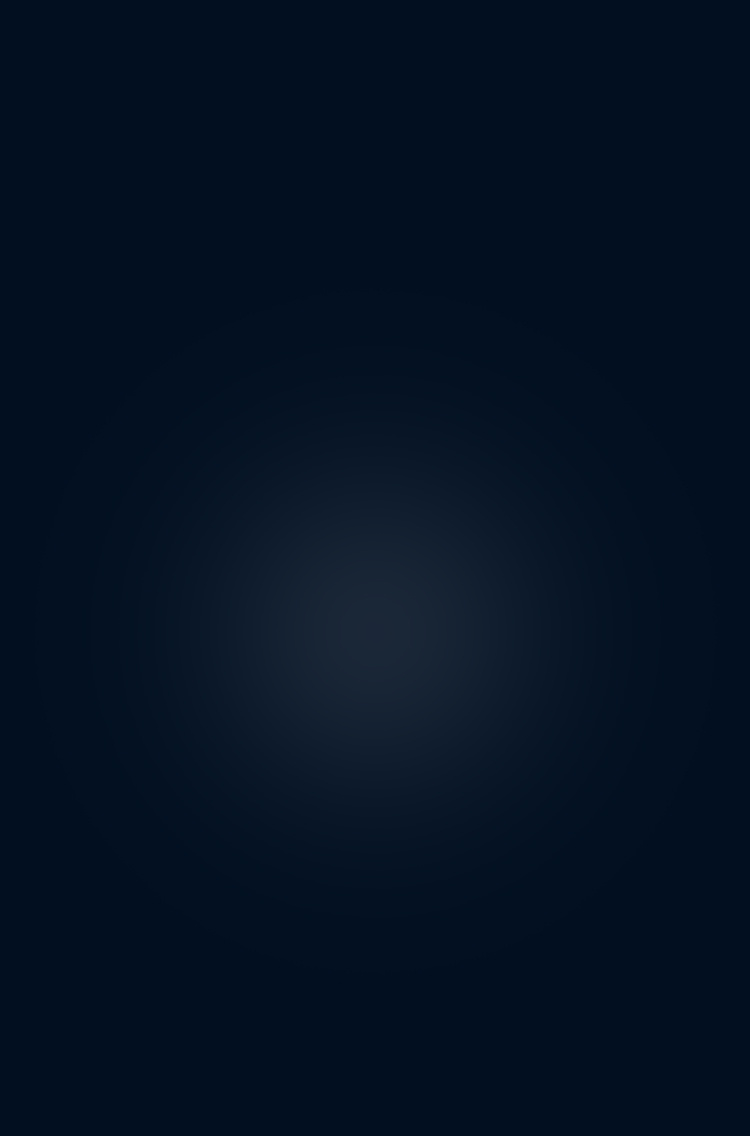
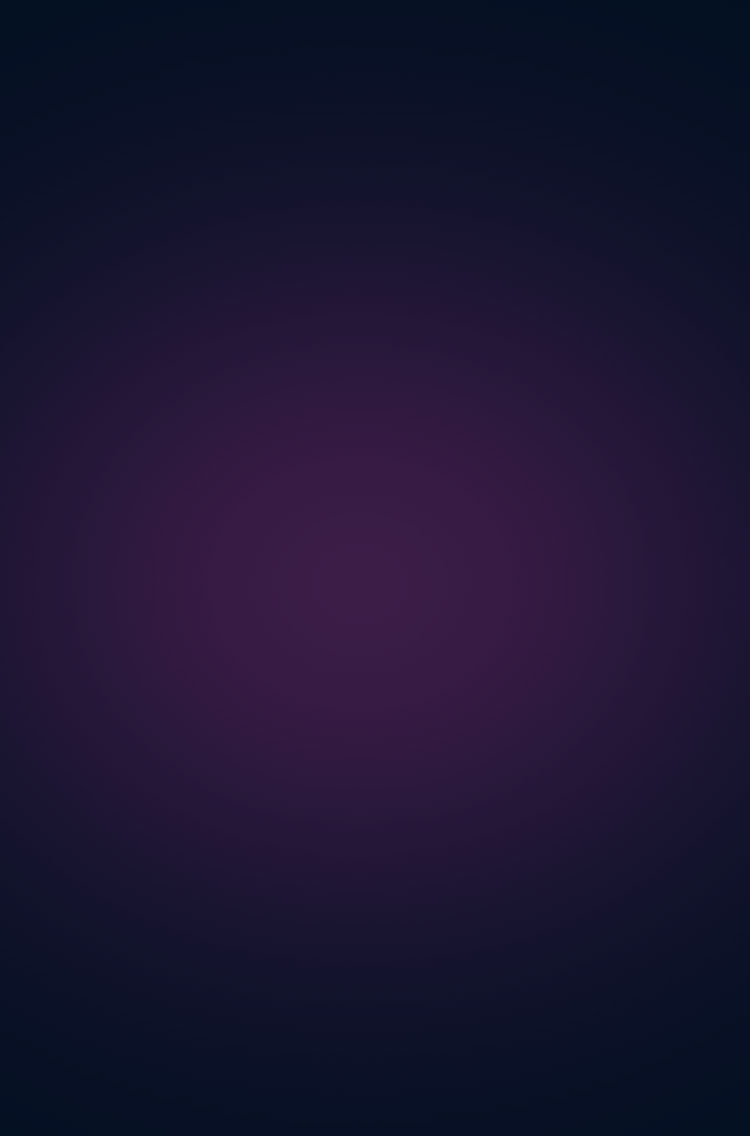
by darre

diff --git a/index_blue.html b/index_blue.html
@@ -10,8 +10,22 @@
     <link rel="stylesheet" type="text/css" href="css/third.css">
     <link rel="stylesheet" type="text/css" href="css/darre.css">
     <link rel="stylesheet" type="text/css" href="css/popup.css">
-
     <body>
+    <div id="popup_container" class="popup_container hide" style="position: fixed;width: 100%;height: 100%;background: url('images/bg.jpg');background-size: 100% 100%;z-index: 556">
+        <!-- 获取四个字通用，只需要把下方get_font_title的img换掉 -->
+        <div class="popup popup_big" id="popup_getkey">
+            <img class="close" src="images/popup/close.png">
+            <img class="get_font_title" src="images/popup/zhu.png">
+            <div class="text">
+                <p><b>友情提示：</b></p>
+                <p><b>注册/登录会员</b>或扫描<b>枕巾、小桌板、桌背</b>的二维码，</p>
+                <p>均有机会获得<b>“想住就住”</b>喔！</p>
+                <p>条条道路通免房，不妨大胆扫一下。</p>
+            </div>
+            <div class="button continue">继续<br>寻宝</div>
+            <div class="button award">我要<br>抽奖</div>
+        </div>
+    </div>
     <div class="wrap">
         <!--公用头-->
         <div class="logo">
@@ -58,10 +72,10 @@
         <!-- 想住就住4个字 -->
         <!--公用尾-->
         <div class="text_wrap">
-            <div class="text">想<i>0</i></div>
-            <div class="text">住<i>0</i></div>
-            <div class="text">就<i>0</i></div>
-            <div class="text">住<i>0</i></div>
+            <div class="text">想<i></i></div>
+            <div class="text">住<i></i></div>
+            <div class="text">就<i></i></div>
+            <div class="text">住<i></i></div>
             <div class="getJiu">
                 <img src="images/darre/get_11.png" alt="" />
             </div>
@@ -70,11 +84,42 @@
        </div>
     </body>
     <script type="text/javascript" src="js/rem.js"></script>
+    <script type="text/javascript" src="js/main.js"></script>
     <script type="text/javascript" src="http://apps.bdimg.com/libs/jquery/2.1.4/jquery.min.js"></script>
     <script type="text/javascript" src="libs/parallax.js"></script>
     <script type="text/javascript">
-        var scene = $('#scene').get(0);
-        var parallax = new Parallax(scene);
+      $(function () {
+        initKeyNum($(".text_wrap .text"))
+        randomLight($(".light_Icon"));
+        $(".want_font,.close").on("click",function(){
+          popupHide(500);
+        })
+        var scene = $('#scene').get(0)
+        var parallax = new Parallax(scene,{
+          pointerEvents: true,
+        });
+        $("#popup_getkey .continue").on("click",function(){
+          //继续寻宝，跳转到全季酒店
+          console.log("to_allseason");
+//          window.location.href = "index_blue.html?xiang=1";
+        })
+        $("#popup_getkey .award").on("click",function(){
+          //到抽奖界面
+          console.log("award");
+        })
+        $("#scene .light_Icon").on("click",function (e) {
+          var correct = $(this).attr("correct");
+          if(correct == 1){
+            popupShow("popup_getkey",500);
+          }else{
+            //失败  小光标飞走
+            var animateKey = animation[parseInt(Math.random()*4)];
+            var animateObj = new Object();
+            animateObj[animateKey] = (animateKey=='left'||animateKey=='right')?'7.5rem':'15rem' ;   //将圆点图标移出屏幕
+            $(this).find("img").css("position",'relative').animate(animateObj,'slow','swing');
+          }
+        })
+      })
     </script>
 
 </html>

diff --git a/index_yellow.html b/index_yellow.html
@@ -11,6 +11,21 @@
 <link rel="stylesheet" type="text/css" href="css/darre.css">
 <link rel="stylesheet" type="text/css" href="css/popup.css">
 <body>
+<div id="popup_container" class="popup_container hide" style="position: fixed;width: 100%;height: 100%;background: url('images/bg.jpg');background-size: 100% 100%;z-index: 556">
+    <!-- 获取四个字通用，只需要把下方get_font_title的img换掉 -->
+    <div class="popup popup_big" id="popup_getkey">
+        <img class="close" src="images/popup/close.png">
+        <img class="get_font_title" src="images/popup/zhu.png">
+        <div class="text">
+            <p><b>友情提示：</b></p>
+            <p><b>注册/登录会员</b>或扫描<b>枕巾、小桌板、桌背</b>的二维码，</p>
+            <p>均有机会获得<b>“想住就住”</b>喔！</p>
+            <p>条条道路通免房，不妨大胆扫一下。</p>
+        </div>
+        <div class="button continue">继续<br>寻宝</div>
+        <div class="button award">我要<br>抽奖</div>
+    </div>
+</div>
 <div class="wrap">
 <!--公用头-->
 <div class="logo">
@@ -59,10 +74,10 @@ top: 6.16rem;-->
 
 <!--公用尾-->
 <div class="text_wrap">
-    <div class="text">想<i>0</i></div>
-    <div class="text">住<i>0</i></div>
-    <div class="text">就<i>0</i></div>
-    <div class="text">住<i>0</i></div>
+    <div class="text">想<i></i></div>
+    <div class="text">住<i></i></div>
+    <div class="text">就<i></i></div>
+    <div class="text">住<i></i></div>
     <div class="getJiu">
         <img src="images/darre/get_11.png" alt=""/>
     </div>
@@ -71,11 +86,39 @@ top: 6.16rem;-->
 </div>
 </body>
 <script type="text/javascript" src="js/rem.js"></script>
+<script type="text/javascript" src="js/main.js"></script>
 <script type="text/javascript" src="http://apps.bdimg.com/libs/jquery/2.1.4/jquery.min.js"></script>
 <script type="text/javascript" src="libs/parallax.js"></script>
 <script type="text/javascript">
-  var scene = $('#scene').get(0);
-  var parallax = new Parallax(scene);
+  $(function () {
+    initKeyNum($(".text_wrap .text"))
+    randomLight($(".light_Icon"));
+    $(".want_font,.close").on("click",function(){
+      popupHide(500);
+    })
+    var scene = $('#scene').get(0)
+    var parallax = new Parallax(scene,{
+      pointerEvents: true,
+    });
+    $("#popup_getkey .continue").on("click",function(){
+      window.location.href = "index_blue.html?xiang=1&zhufir=1";
+    })
+    $("#popup_getkey .award").on("click",function(){
+      //到抽奖界面
+      console.log("award");
+    })
+    $("#scene .light_Icon").on("click",function (e) {
+      var correct = $(this).attr("correct");
+      if(correct == 1){
+        popupShow("popup_getkey",500);
+      }else{
+        //失败  小光标飞走
+        var animateKey = animation[parseInt(Math.random()*4)];
+        var animateObj = new Object();
+        animateObj[animateKey] = (animateKey=='left'||animateKey=='right')?'7.5rem':'15rem' ;   //将圆点图标移出屏幕
+        $(this).find("img").css("position",'relative').animate(animateObj,'slow','swing');
+      }
+    })
+  })
 </script>
-
 </html>

diff --git a/index.html b/index.html
@@ -40,8 +40,8 @@
             <p>均有机会获得<b>“想住就住”</b>喔！</p>
             <p>条条道路通免房，不妨大胆扫一下。</p>
         </div>
-        <div class="button">继续<br>寻宝</div>
-        <div class="button">我要<br>抽奖</div>
+        <div class="button continue">继续<br>寻宝</div>
+        <div class="button award">我要<br>抽奖</div>
     </div>
 </div>
 <div class="logo">
@@ -97,16 +97,6 @@
 <script type="text/javascript">
   $(function () {
     initKeyNum($(".text_wrap .text"))
-    //公用popup方法   popup用来制定popupcontainer中指定的某个popup   popkeypopu的id
-    var popupShow = function (popkey,speed){
-      if(typeof(speed) != "number") speed = 0;
-      $("#popup_container .popup").hide();
-      $("#popup_container").fadeIn(speed).find("#"+popkey).show();
-    },popupHide = function (speed){
-      if(typeof(speed) != "number") speed = 0;
-      $("#popup_container .popup").hide();
-      $("#popup_container").fadeOut(speed);
-    },animation = ["left","right","top",'bottom'];
     //游戏说明弹窗
     popupShow("popup_begin",0);
     randomLight($(".light_Icon"));
@@ -117,6 +107,21 @@
     var parallax = new Parallax(scene,{
       pointerEvents: true,
     });
+    $("#popup_getkey .continue").on("click",function(){
+      //继续寻宝，跳转到全季酒店
+      console.log("to_allseason");
+      window.location.href = "index_yellow.html?xiang=1";
+    })
+    $("#popup_getkey .award").on("click",function(){
+      console.log("award");
+      //判断是否集齐了所有的字
+      var obj = GetRequest();
+      if(obj.zhufir=='1'&&obj.zhusec=='1'&&obj.jiu=='1'){
+        alert("全部集齐，跳转到抽奖页面")
+      }else{
+        popupShow("popup_begin",500);
+      }
+    })
     $("#scene .light_Icon").on("click",function (e) {
       var correct = $(this).attr("correct");
       if(correct == 1){

diff --git a/js/main.js b/js/main.js
@@ -1,6 +1,16 @@
 /**
  * Created by Darre on 17/07/2017.
  */
+  //公用popup方法   popup用来制定popupcontainer中指定的某个popup   popkeypopu的id
+var popupShow = function (popkey,speed){
+  if(typeof(speed) != "number") speed = 0;
+  $("#popup_container .popup").hide();
+  $("#popup_container").fadeIn(speed).find("#"+popkey).show();
+},popupHide = function (speed){
+  if(typeof(speed) != "number") speed = 0;
+  $("#popup_container .popup").hide();
+  $("#popup_container").fadeOut(speed);
+},animation = ["left","right","top",'bottom'];
 //光点随机选中一个为正确光点
 function randomLight(jqObj){
   var index = parseInt(Math.random()*jqObj.length);

diff --git a/css/second.css b/css/second.css
@@ -1,5 +1,5 @@
 body{
-  background:url(../images/allseason/bg.jpg) center top no-repeat;
+  background:url(../images/bg.jpg) center top no-repeat;
   background-size:7.5rem 13.36rem;
   background-color:#01081d;
   width:7.5rem;
@@ -7,7 +7,7 @@ body{
   overflow:hidden;
 }
 body img{
-  position:absolute;
+  /*position:absolute;*/
 }
 #scene{
   width:7.5rem;

diff --git a/css/third.css b/css/third.css
@@ -1,5 +1,5 @@
 body{
-  background:url(../images/ht/bg.jpg) center top no-repeat;
+  background:url(../images/bg.jpg) center top no-repeat;
   background-size:7.5rem 13.36rem;
   background-color:#01081d;
   width:7.5rem;
@@ -7,7 +7,7 @@ body{
   overflow:hidden;
 }
 body img{
-  position:absolute;
+  /*position:absolute;*/
 }
 #scene{
   width:7.5rem;
